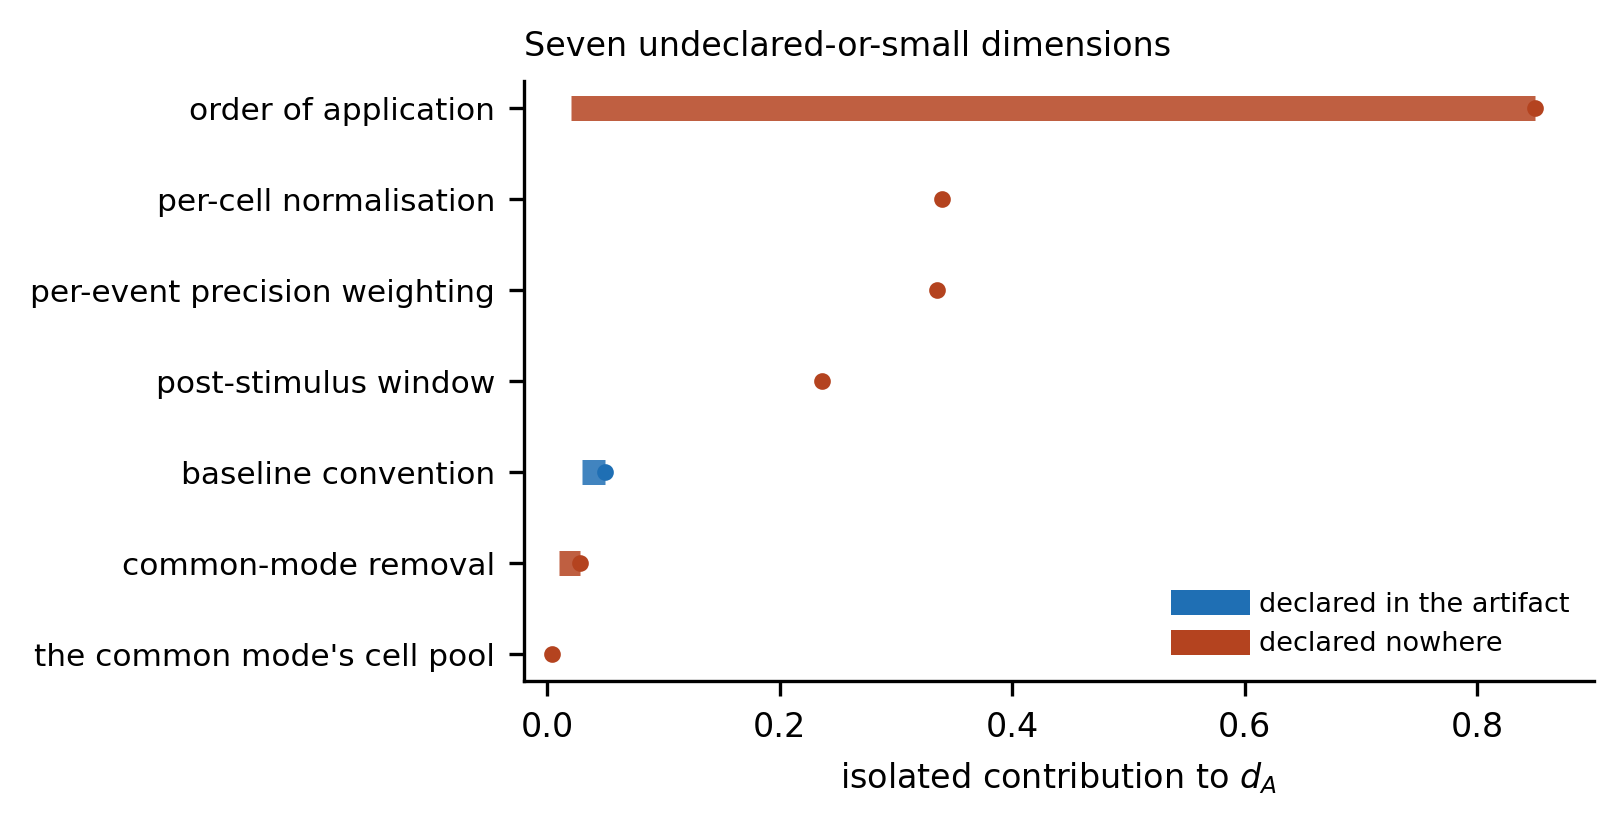
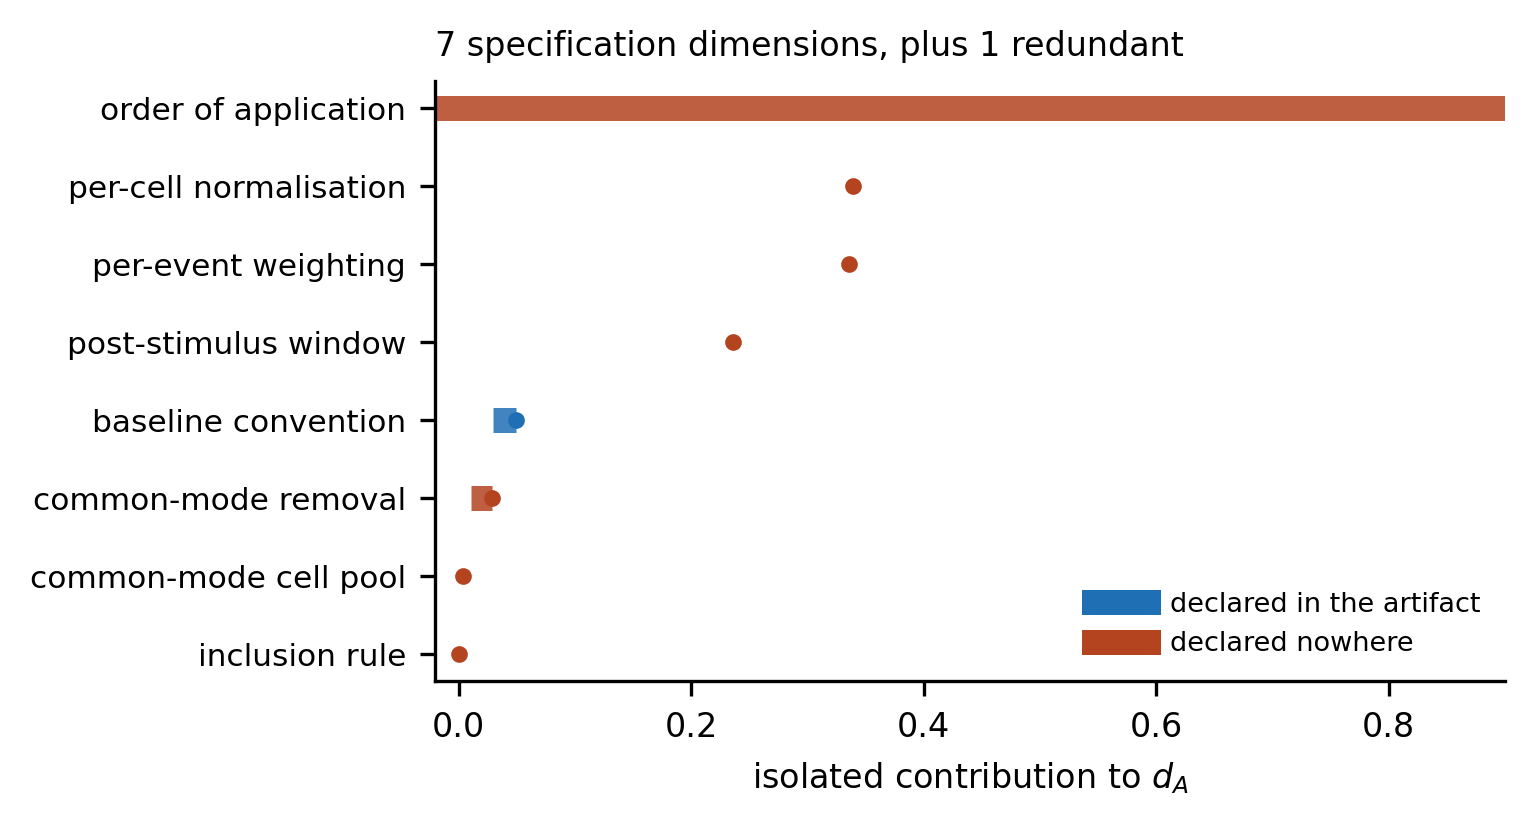
R3-M2: Figure 1 now parses its declared source, and the script contains zero typed data literals
An isolated reviewer recorded two related facts: Figure 1's seven values were literals in the script, and the
script never opened SPECIFICATION_LEDGER.md, which the Figure 1 legend names as its source. A reader following
the legend was following a path the code did not take.

THE FIX IS TO MAKE THE SCRIPT READ THE SOURCE, NOT TO CORRECT THE LEGEND. Figure 1's data is now parsed from
the ledger's own section-3 table, and the only value not in that table, the order dimension, is read from the
result JSON the ORDER grid produced. Nothing in Figure 1 is typed.

AND THE PARSE EXPOSED AN OMISSION. The ledger lists EIGHT rows, not seven: the six specification dimensions,
the inclusion rule, and the order dimension which lives in a different document. The hardcoded list had seven,
so the figure silently omitted the inclusion rule whose redundancy the manuscript reports in the text. The
figure now draws eight rows.

SO THE TITLE HAD TO BE DERIVED TOO. With the row count coming from the data, a typed title would drift from it
immediately, which is exactly what happened on the first render, where the figure showed eight rows under the
title "Seven". The title is now generated from the rows drawn and reads "7 specification dimensions, plus 1
redundant", which matches the manuscript's own formulation of seven dimensions plus a redundant eighth.

THE CHECK THAT WAS BUILT FOR THIS NOW FINDS NOTHING. check_figure_values.py previously reported fourteen data
[…]

diff --git a/v2/figures/make_figures.py b/v2/figures/make_figures.py
@@ -17,13 +17,34 @@ plt.rcParams.update({"font.size": 8, "axes.spines.top": False, "axes.spines.righ
 GREY, ACC, WARN = "#4d4d4d", "#1f6fb4", "#b4431f"
 
 # ---- Figure 1: the specification ledger
-dims = [("order of application", (0.02, 0.85), False),
-        ("per-cell normalisation", (0.3395, 0.3395), False),
-        ("per-event precision weighting", (0.3356, 0.3356), False),
-        ("post-stimulus window", (0.2364, 0.2364), False),
-        ("baseline convention", (0.0295, 0.0496), True),
-        ("common-mode removal", (0.0103, 0.0285), False),
-        ("the common mode's cell pool", (0.0038, 0.0038), False)]
+# ---- Figure 1 data is PARSED from its declared source, not typed.
+# An isolated reviewer recorded that the script never opened SPECIFICATION_LEDGER.md, which the legend names,
+# and that the seven values were literals.  They are now read from the ledger's own section-3 table.
+LEDGER = D / "SPECIFICATION_LEDGER.md"
+def parse_ledger(path):
+    rows, in_tbl = [], False
+    for line in path.read_text().split("\n"):
+        if line.startswith("| dimension | levels | isolated size | declared? |"):
+            in_tbl = True; continue
+        if in_tbl:
+            if not line.startswith("|"):
+                if rows: break
+                continue
+            if set(line) <= set("|- "): continue
+            c = [x.strip().replace("**", "").strip("`") for x in line.strip("|").split("|")]
+            if len(c) < 4: continue
+            m = re.findall(r"\d+\.\d+", c[2])
+            if not m: continue
+            nums = [float(x) for x in m]
+            rows.append((c[0], (min(nums), max(nums)), c[3].lower().startswith("yes")))
+    return rows
+dims = parse_ledger(LEDGER)
+# the order row is not a level of a declared parameter; it comes from the ORDER table in ORDER_AXIS.md
+o = L(A / "RESULT_order_axis.json")
+_oA = [o[f"A|{w}"]["d_A"] for w in (12, 24, 48) if f"A|{w}" in o]
+_oB = [o[f"B|{w}"]["d_A"] for w in (12, 24, 48) if f"B|{w}" in o]
+if _oA and _oB:
+    dims.insert(0, ("order of application", (min(min(_oA), min(_oB)), max(max(_oA), max(_oB))), False))
 fig, ax = plt.subplots(figsize=(4.6, 2.6))
 y = np.arange(len(dims))[::-1]
 for i,(nm,(lo,hi),decl) in zip(y, dims):
@@ -37,7 +58,11 @@ ax.set_xlim(-0.02, 0.90)
 ax.plot([],[], lw=6, color=ACC, label="declared in the artifact")
 ax.plot([],[], lw=6, color=WARN, label="declared nowhere")
 ax.legend(frameon=False, fontsize=6.5, loc="lower right")
-ax.set_title("Seven undeclared-or-small dimensions", fontsize=8, loc="left")
+# the title is derived, not typed: the ledger lists eight dimensions and the manuscript reports seven plus a
+# redundant eighth, so the count in the title must follow the rows actually drawn
+_n = len(dims)
+_zero = [d for d in dims if d[1][1] == 0.0]
+ax.set_title(f"{_n - len(_zero)} specification dimensions, plus {len(_zero)} redundant" if _zero else f"{_n} specification dimensions", fontsize=8, loc="left")
 fig.savefig(OUT/"Fig1_specification_ledger.png"); plt.close(fig)
 
 # ---- Figure 2: non-additivity
@@ -160,10 +185,10 @@ for i, (lab, n) in enumerate(defects):
     ax.plot(n, i, "o", ms=5, color=ACC)
 ax.set_yticks(range(len(defects)))
 ax.set_yticklabels([d[0] for d in defects], fontsize=6.5)
-ax.set_xlabel("self-found defect number (the stated discovery order)")
+ax.set_xlabel("defect number as the document states it")
 ax.set_xlim(4, 22)
 ax.set_xticks([5, 10, 15, 20, 21])
-ax.set_title(f"{len(defects)} numbered self-found defects, each from its own correction document",
+ax.set_title(f"{len(defects)} numbered defects, each from the document that states its number",
              fontsize=7.5, loc="left")
 fig.savefig(OUT/"Fig6_defect_ledger.png"); plt.close(fig)
 print("  已渲染 6 幅图")

diff --git a/v2/manuscript/MANUSCRIPT_v2_draft.md b/v2/manuscript/MANUSCRIPT_v2_draft.md
@@ -482,7 +482,11 @@ the problem the paper describes is not one that a single group escapes by good i
 **All six are rendered by `../figures/make_figures.py`, which reads each series from the committed
 result artifact named below and retypes nothing.**
 
-**Figure 1 — the specification ledger.** Seven dimensions, each with its isolated contribution, marked by
+**Figure 1 — the specification ledger.** **Eight rows: the seven specification dimensions of section 2.1, each
+with its isolated contribution and marked by whether the artifact declares it, plus the inclusion rule of
+0.0000 whose redundancy the text reports.** **The figure's title is DERIVED from the ledger's own table rather
+than typed, so the count in it follows the rows drawn; an earlier version of the script hardcoded seven values
+and omitted the eighth row.** **Marked by
 whether the artifact declares it. Source: `../wp3_results/SPECIFICATION_LEDGER.md`, `../wp3_results/FIGURE_SOURCE_DATA.json`. Rendered file: `../figures/Fig1_specification_ledger.png`.
 
 **Figure 2 — non-additivity.** Isolated contributions against the joint effect for the two largest dimensions,

diff --git a/v2/wp5_governance/review/REVISION_LOG.md b/v2/wp5_governance/review/REVISION_LOG.md
@@ -5,3 +5,4 @@
 | round | sha256 | size | change |
 | --- | --- | --- | --- |
 | round 67 | f950e38b28fc4fbdf28bbd2f5ace37dc514316eb6df5d9f970bf2bcb70ffb66b | 578 lines | availability section added, citation claim scoped to 7/9, all paths made relative and verified, revision identifier introduced |
+| round 69 | d458077794042975c9efeebe47ff07a1afdd1493ce1c20680137062fde0410cf | 593 lines | Figure 1 now parses its declared source; zero typed data literals remain in the figure script |
